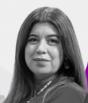
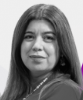
fotos arregladas y esquinas redondas en profile y team

diff --git a/team.html b/team.html
@@ -41,61 +41,81 @@
           </div>
           <ul role="list" class="mt-20 grid grid-cols-1 gap-x-2 gap-y-2 sm:grid-cols-2 lg:mx-0 lg:grid-cols-4  ">
             <li class="shadow-lg bg-gray-50 pt-6">
-              <img class="h-32 w-full object-contain rounded-md" src="img/investigadores/inv dante.jpg" alt="">
+              <div class="text-center flex justify-center ">
+                <img class="h-32 object-contain rounded-lg rounded-md" src="img/investigadores/inv dante.jpg" alt="">
+              </div>
               <h3 class="text-lg font-semibold leading-8 tracking-tight text-gray-900 text-center">Dante Travisany</h3>
               <p class="text-base leading-7 text-gray-600 text-center text-orange-600">Investigador</p>
 
             </li>
             <li class="shadow-lg bg-gray-50 pt-6">
-              <img class="h-32 w-full object-contain " src="img/investigadores/inv melissa.png" alt="">
+              <div class="text-center flex justify-center ">
+                <img class="h-32 object-contain rounded-lg rounded-md" src="img/investigadores/inv melissa.png" alt="">
+              </div>
               <h3 class="text-lg font-semibold leading-8 tracking-tight text-gray-900 text-center">Melissa Alegria</h3>
               <p class="text-base leading-7 text-gray-600 text-center text-orange-600">Investigador</p>
 
             </li>
             <li class="shadow-lg bg-gray-50 pt-6">
-              <img class="h-32 w-full object-contain" src="img/investigadores/inv francisco.png" alt="">
+              <div class="text-center flex justify-center ">
+                <img class="h-32 object-contain rounded-lg rounded-md" src="img/investigadores/inv francisco.png" alt="">
+              </div>
               <h3 class="text-lg font-semibold leading-8 tracking-tight text-gray-900 text-center">Francisco Altimiras</h3>
               <p class="text-base leading-7 text-gray-600 text-center text-orange-600">Investigador</p>
 
             </li>
             <li class="shadow-lg bg-gray-50 pt-6">
-              <img class="h-32 w-full object-contain" src="img/investigadores/inv monica.png" alt="">
+              <div class="text-center flex justify-center ">
+                <img class="h-32 object-contain rounded-lg rounded-md" src="img/investigadores/inv monica.png" alt="">
+              </div>
               <h3 class="text-lg font-semibold leading-8 tracking-tight text-gray-900 text-center">Monica Panes</h3>
               <p class="text-base leading-7 text-gray-600 text-center text-orange-600">Investigador</p>
 
             </li>
             <li class="shadow-lg bg-gray-50 pt-6">
-              <img class="h-32 w-full object-contain" src="img/investigadores/inv osvaldo.png" alt="">
+              <div class="text-center flex justify-center ">
+                <img class="h-32 object-contain rounded-lg rounded-md" src="img/investigadores/inv osvaldo.png" alt="">
+              </div>
               <h3 class="text-lg font-semibold leading-8 tracking-tight text-gray-900 text-center">Osvaldo Yañez</h3>
               <p class="text-base leading-7 text-gray-600 text-center text-orange-600">Investigador</p>
 
             </li>
             <li class="shadow-lg bg-gray-50 pt-6">
-              <img class="h-32 w-full object-contain" src="img/investigadores/inv lysdely.png" alt="">
+              <div class="text-center flex justify-center ">
+                <img class="h-32 object-contain rounded-lg rounded-md" src="img/investigadores/inv lysdely.png" alt="">
+              </div>
               <h3 class="text-lg font-semibold leading-8 tracking-tight text-gray-900 text-center">Lysdely González</h3>
               <p class="text-base leading-7 text-gray-600 text-center text-orange-600">Investigador</p>
 
             </li>
             <li class="shadow-lg bg-gray-50 pt-6">
-              <img class="h-32 w-full object-contain" src="img/investigadores/inv fabiola.png" alt="">
+              <div class="text-center flex justify-center ">
+                <img class="h-32 object-contain rounded-lg rounded-md" src="img/investigadores/inv fabiola.png" alt="">
+              </div>
               <h3 class="text-lg font-semibold leading-8 tracking-tight text-gray-900 text-center">Fabiola Lobos</h3>
               <p class="text-base leading-7 text-gray-600 text-center text-orange-600">Investigador</p>
 
             </li>
             <li class="shadow-lg bg-gray-50 pt-6">
-              <img class="h-32 w-full object-contain" src="img/asistentes/as matias.png" alt="">
+              <div class="text-center flex justify-center ">
+                <img class="h-32 object-contain rounded-lg rounded-md" src="img/asistentes/as matias.png" alt="">
+              </div>
               <h3 class="text-lg font-semibold leading-8 tracking-tight text-gray-900 text-center">Matias Cisterna</h3>
               <p class="text-base leading-7 text-gray-600 text-center text-orange-600">Asistente</p>
 
             </li>
             <li class="shadow-lg bg-gray-50 pt-6">
-              <img class="h-32 w-full object-contain" src="img/asistentes/as franco.png" alt="">
+              <div class="text-center flex justify-center ">
+                <img class="h-32 object-contain rounded-lg rounded-md" src="img/asistentes/as franco.png" alt="">
+              </div>
               <h3 class="text-lg font-semibold leading-8 tracking-tight text-gray-900 text-center">Franco Marchese</h3>
               <p class="text-base leading-7 text-gray-600 text-center text-orange-600">Asistente</p>
 
             </li>
             <li class="shadow-lg bg-gray-50 pt-6">
-              <img class="h-32 w-full object-contain" src="img/asistentes/as teyson.png" alt="">
+              <div class="text-center flex justify-center ">
+                <img class="h-32 object-contain rounded-lg rounded-md" src="img/asistentes/as teyson.png" alt="">
+              </div>
               <!-- h3 class=" text-lg font-semibold leading-8 tracking-tight text-gray-900 text-center">Teyson Montoya</h3 -->
               <div class="text-center ">
                 <a href="profile.html" target=blank_ class="text-lg font-semibold leading-8 tracking-tight text-gray-900 hover:text-orange-600">Teyson Montoya<span aria-hidden="true"></span></a>                 
@@ -104,7 +124,9 @@
 
             </li>
             <li class="shadow-lg bg-gray-50 pt-6">
-              <img class="h-32 w-full object-contain" src="img/asistentes/as benja.png" alt="">
+              <div class="text-center flex justify-center ">
+                <img class="h-32 object-contain rounded-lg rounded-md" src="img/asistentes/as benja.png" alt="">
+              </div>
               <h3 class=" text-lg font-semibold leading-8 tracking-tight text-gray-900 text-center">Benjamin Fierro</h3>
               <p class="text-base leading-7 text-gray-600 text-center text-orange-600">Asistente</p>
 

diff --git a/profile.html b/profile.html
@@ -47,8 +47,8 @@
           <div class="mt-10 lg:col-start-2 lg:row-span-2 lg:mt-0 lg:self-center   ">
             <h3 class=" text-lg font-semibold leading-8 tracking-tight text-gray-900 text-center">Teyson Montoya</h3>
             <p class="text-base leading-7 text-gray-600 text-center text-orange-600">Asistente</p>
-            <div class="aspect-h-1 aspect-w-1 overflow-hidden rounded-lg">
-              <img class=" mb-10  h-64 w-full object-contain tex" src="img/asistentes/as teyson.png" alt="">
+            <div class="aspect-h-1 aspect-w-1 overflow-hidden flex justify-center ">
+              <img class=" mb-10  h-64 object-contain rounded-lg rounded-md" src="img/asistentes/as teyson.png" alt="">
             </div>
           </div>
 
